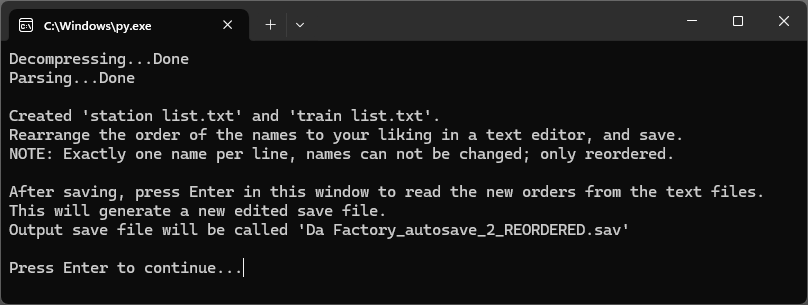
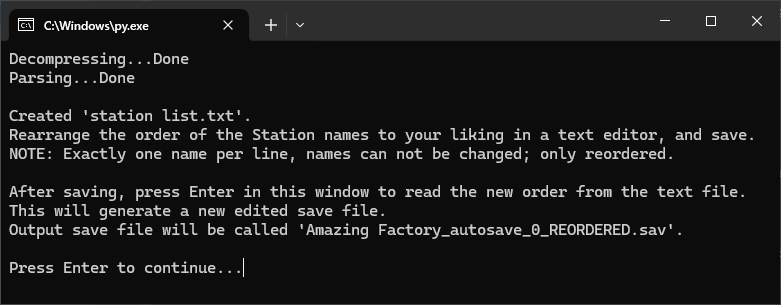
Removed the option to 'reorder' Trains. Only Stations can be changed
Since 1.0 Trains are ordered alphabetically, so their order can't be changed anymore.

diff --git a/train_rearranger.py b/train_rearranger.py
@@ -83,10 +83,8 @@ class SaveTrainParser:
         self.chunk_header_begin: bytes | None = None
 
         self.train_station_order_array: tuple[int, int, list[SaveDataObjectReference]] | None = None
-        self.train_order_array: tuple[int, int, list[SaveDataObjectReference]] | None = None
 
         self.train_stations: dict[SaveDataObjectReference, SaveDataString] | None = None
-        self.trains: dict[SaveDataObjectReference, SaveDataString] | None = None
 
         self.parse(file_object)
 
@@ -137,21 +135,17 @@ class SaveTrainParser:
 
     def quick_parse_body(self):
         print("Parsing...", end="", flush=True)
-        # Get the arrays which hold the order of stations and trains in the Time Table menu
+        # Get the arrays which hold the order of stations in the Time Table menu
         self.train_station_order_array = self.find_and_read_array("mTrainStationIdentifiers")
-        self.train_order_array = self.find_and_read_array("mTrains")
 
         # Get the objects, in order of how they appear in the save file
         train_station_references = self.find_present_objects("/Script/FactoryGame.FGTrainStationIdentifier")
-        train_references = self.find_present_objects("/Game/FactoryGame/Buildable/Vehicle/Train/-Shared/BP_Train.BP_Train_C")
 
-        # Get the names of stations and trains, which will be in the same order as the object references
+        # Get the names of stations, which will be in the same order as the object references
         train_station_names = self.find_present_text_properties("mStationName")
-        train_names = self.find_present_text_properties("mTrainName")
 
-        # Zip the objects and their names into dicts, so the name of every object can easily be retrieved
+        # Zip the objects and their names into a dict, so the name of every object can be easily retrieved
         self.train_stations = dict(zip(train_station_references, train_station_names))
-        self.trains = dict(zip(train_references, train_names))
         print("Done")
 
     def write_file(self, filename: str):
@@ -228,20 +222,8 @@ class SaveTrainParser:
             result.append((station_object, self.train_stations[station_object]))
         return result
 
-    def get_train_entries(self) -> list[tuple[SaveDataObjectReference, SaveDataString]]:
-        """
-        Get a list of all train objects and their names, ordered by how they appear in the Time Table menu
-        """
-        result = []
-        for station_object in self.train_order_array[2]:
-            result.append((station_object, self.trains[station_object]))
-        return result
-
     def reorder_train_stations(self, new_order: list[SaveDataObjectReference]):
         self.reorder_array(self.train_station_order_array, new_order)
-
-    def reorder_trains(self, new_order: list[SaveDataObjectReference]):
-        self.reorder_array(self.train_order_array, new_order)
 
     def reorder_array(self, original_array: tuple[int, int, list[SaveDataObjectReference]], new_order: list[SaveDataObjectReference]):
         body_array_start, body_array_end, original_order = original_array
@@ -313,16 +295,10 @@ def main():
         parser = SaveTrainParser(f)
 
     station_entries = parser.get_stations_entries()
-    train_entries = parser.get_train_entries()
 
     with open("station list.txt", "w", encoding="utf-8") as f:
         for station_entry, station_name in station_entries:
             f.write(station_name.decode())
-            f.write("\n")
-
-    with open("train list.txt", "w", encoding="utf-8") as f:
-        for train_entry, train_name in train_entries:
-            f.write(train_name.decode())
             f.write("\n")
 
     path, filename = os.path.split(input_save_path)
@@ -330,21 +306,19 @@ def main():
     output_save_filename = f"{name}_REORDERED{extension}"
 
     print()
-    print("Created 'station list.txt' and 'train list.txt'.")
-    print("Rearrange the order of the names to your liking in a text editor, and save.")
+    print("Created 'station list.txt'.")
+    print("Rearrange the order of the Station names to your liking in a text editor, and save.")
     print("NOTE: Exactly one name per line, names can not be changed; only reordered.")
     print()
-    print("After saving, press Enter in this window to read the new orders from the text files.")
+    print("After saving, press Enter in this window to read the new order from the text file.")
     print("This will generate a new edited save file.")
     print(f"Output save file will be called {output_save_filename!r}.")
     print()
     wait_for_enter()
 
     new_station_array_entries = read_new_order("station list.txt", station_entries, "Station")
-    new_train_array_entries = read_new_order("train list.txt", train_entries, "Train")
 
     parser.reorder_train_stations(new_station_array_entries)
-    parser.reorder_trains(new_train_array_entries)
 
     print()
     parser.write_file(output_save_filename)

diff --git a/README.md b/README.md
@@ -1,6 +1,8 @@
-# Satisfactory Train Rearranger
-A tool to rearrange the order of Train Stations and Trains in the Time Table menu by editing the save file.
+# Satisfactory Train Station Rearranger
+A tool to rearrange the order of Train Stations in the Time Table menu by editing the save file.
 Currently updated for at least Update 1.0, v1.0.0.3 (build 368883).
+
+Usage instructions are down below.
 
 ## The problem
 The Stations in the Time Table menu are ordered by the time they were built,
@@ -9,17 +11,18 @@ When building a larger rail network, this can lead to some pretty nasty and unor
 
 Or perhaps you'd like some stations to be at the top of the list because they're used more often. Like an on-demand Train Mall system.
 
-Satisfactory currently does not have a way of changing the order of Stations and Trains, which is why I wrote this tool!
+Satisfactory currently does not have a way of changing the order of Stations, which is why I wrote this tool!
 
 ![](./img/before_after.png)
 
 ## What this tool can do
-- Change the order in which the Stations and Trains appear in the Time Table menu.
+- Change the order in which the Stations appear in the Time Table menu.
 
-## What this tool can not do
-- Edit the names of Stations and Trains.
-- Remove or add Stations/Trains.
-- Change the order in which Stations and Trains appear in the Map's menu.
+## What this tool can *not* do
+- Edit the order of Trains in the Time Table menu. This was possible before, but since 1.0, Trains are sorted alphabetically, so this tool can't change them anymore.
+- Edit the names of Stations.
+- Remove or add Stations.
+- Change the order in which Stations appear in the Map's menu.
 - Do anything with non-train vehicles.
 
 ## Usage
@@ -28,23 +31,23 @@ Satisfactory currently does not have a way of changing the order of Stations and
    - If you rather run from source instead of downloading a release, download and install [Python](https://www.python.org/downloads/) and download [train_rearrenger.py](./train_rearranger.py) from this repo.
 2. In file explorer, drag and drop your savefile onto the `train_rearrenger.exe/py` file.
 ![](./img/drag_and_drop.png)
-3. Two text files will be created: `station list.txt` and `train list.txt`. Read the program's instructions and edit the files to your liking.
+3. A text file will be created: `station list.txt`. Read the program's instructions and edit the file to your liking.
 ![](./img/reorder_instructions.png)
-4. Don't forget to save the text files!
-5. Press Enter in the program's window to read the new orders from the files. If no names are missing, misspelled or duplicated a new save file will be generated.
+4. Don't forget to save your changes to `station list.txt`!
+5. Press Enter in the program's window to read the new orders from the file. If the text file is correct (no names are missing, misspelled or duplicated) a new save file will be generated.
 6. Put the new save file in Satisfactory's SaveGames folder and enjoy!
 
 ## FAQ
-- What if I mess up one of the text files (like if I misspelled or missed a name)?
+- What if I mess up the text file (like if I misspelled or missed a Station name)?
   - The program will check that your text file is correct and informs you if something is wrong.
-A new save file will only be generated if both text files contain all of the names.
+A new save file will only be generated if the text file contains all the names.
 - Does this work with mods?
   - I have only used this on a vanilla save, but my guess is probably! Make a backup of your original save just in case though.
-- What if I have several Stations/Trains of the same name?
-  - No worries! Though they can only stay in the same relative order. Meaning if you have 2 Trains named "ChooChoo", the first "ChooChoo" in the old list will always be the first "ChooChoo" in the new list, second the second, etc.
+- What if I have several Stations of the same name?
+  - No worries! Though they can only stay in the same relative order. For example if you have 2 Stations both named "Iron Ore", the first "Iron Ore" in the old list will always be the first "Iron Ore" in the new list, second the second, etc.
 - Does rearranging the Stations mess with any of the Self-Driving Trains?
   - No, all Trains will continue working as intended. This tool only changes the Time Table's visual list order.
 - Does this tool work with several separated rail networks?
-  - Yes, it'll work. If you have separate rail networks it will put all Stations and Trains into the same text file, but the game will still know that they are separate networks.
+  - Yes, it'll work. If you have separate rail networks it will put all Stations into the same text file, but the game will still know that they are separate networks.
 - Will you make a version with a proper user interface?
   - I have no plans for it, this currently works well enough for me. Feel free to fork and improve it though!
